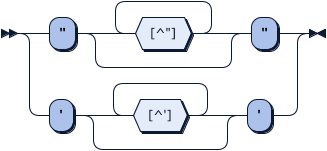
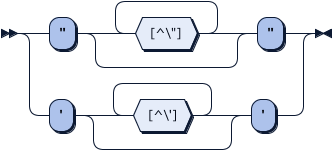
fix STRING and EOL token, update diagrams

diff --git a/Assignment/lex-diagram/index.html b/Assignment/lex-diagram/index.html
@@ -219,15 +219,11 @@
                <div><a href="#ASSIGN" title="ASSIGN">ASSIGN</a>&nbsp;&nbsp;&nbsp;::= ':' '='</div></code></div>
          </p>
       
-      <p>no references</p><br><p style="font-size: 14px; font-weight:bold"><a name="BOOL">BOOL:</a></p><img border="0" src="diagram/BOOL.png" height="169" width="349"><p>
+      <p>no references</p><br><p style="font-size: 14px; font-weight:bold"><a name="BOOL">BOOL:</a></p><img border="0" src="diagram/BOOL.png" height="81" width="309"><p>
          
          <div class="ebnf"><code>
                
-               <div><a href="#BOOL" title="BOOL">BOOL</a>&nbsp;&nbsp;&nbsp;&nbsp;&nbsp;::= '0'</div>
-               
-               <div>&nbsp;&nbsp;&nbsp;&nbsp;&nbsp;&nbsp;&nbsp;&nbsp;&nbsp;&nbsp;&nbsp;| '1'</div>
-               
-               <div>&nbsp;&nbsp;&nbsp;&nbsp;&nbsp;&nbsp;&nbsp;&nbsp;&nbsp;&nbsp;&nbsp;| ( 't' 'r' 'u' | 'f' 'a' 'l' 's' ) 'e'</div></code></div>
+               <div><a href="#BOOL" title="BOOL">BOOL</a>&nbsp;&nbsp;&nbsp;&nbsp;&nbsp;::= ( 't' 'r' 'u' | 'f' 'a' 'l' 's' ) 'e'</div></code></div>
          </p>
       
       <p>no references</p><br><p style="font-size: 14px; font-weight:bold"><a name="NUM">NUM:</a></p><img border="0" src="diagram/NUM.png" height="53" width="161"><p>
@@ -237,13 +233,13 @@
                <div><a href="#NUM" title="NUM">NUM</a>&nbsp;&nbsp;&nbsp;&nbsp;&nbsp;&nbsp;::= [0-9]+</div></code></div>
          </p>
       
-      <p>no references</p><br><p style="font-size: 14px; font-weight:bold"><a name="STRING">STRING:</a></p><img border="0" src="diagram/STRING.png" height="151" width="327"><p>
+      <p>no references</p><br><p style="font-size: 14px; font-weight:bold"><a name="STRING">STRING:</a></p><img border="0" src="diagram/STRING.png" height="151" width="333"><p>
          
          <div class="ebnf"><code>
                
-               <div><a href="#STRING" title="STRING">STRING</a>&nbsp;&nbsp;&nbsp;::= '"' [^"]* '"'</div>
+               <div><a href="#STRING" title="STRING">STRING</a>&nbsp;&nbsp;&nbsp;::= '"' [^\"]* '"'</div>
                
-               <div>&nbsp;&nbsp;&nbsp;&nbsp;&nbsp;&nbsp;&nbsp;&nbsp;&nbsp;&nbsp;&nbsp;| "'" [^']* "'"</div></code></div>
+               <div>&nbsp;&nbsp;&nbsp;&nbsp;&nbsp;&nbsp;&nbsp;&nbsp;&nbsp;&nbsp;&nbsp;| "'" [^\']* "'"</div></code></div>
          </p>
       
       <p>no references</p><br><p style="font-size: 14px; font-weight:bold"><a name="LTEQ">LTEQ:</a></p><img border="0" src="diagram/LTEQ.png" height="37" width="139"><p>
